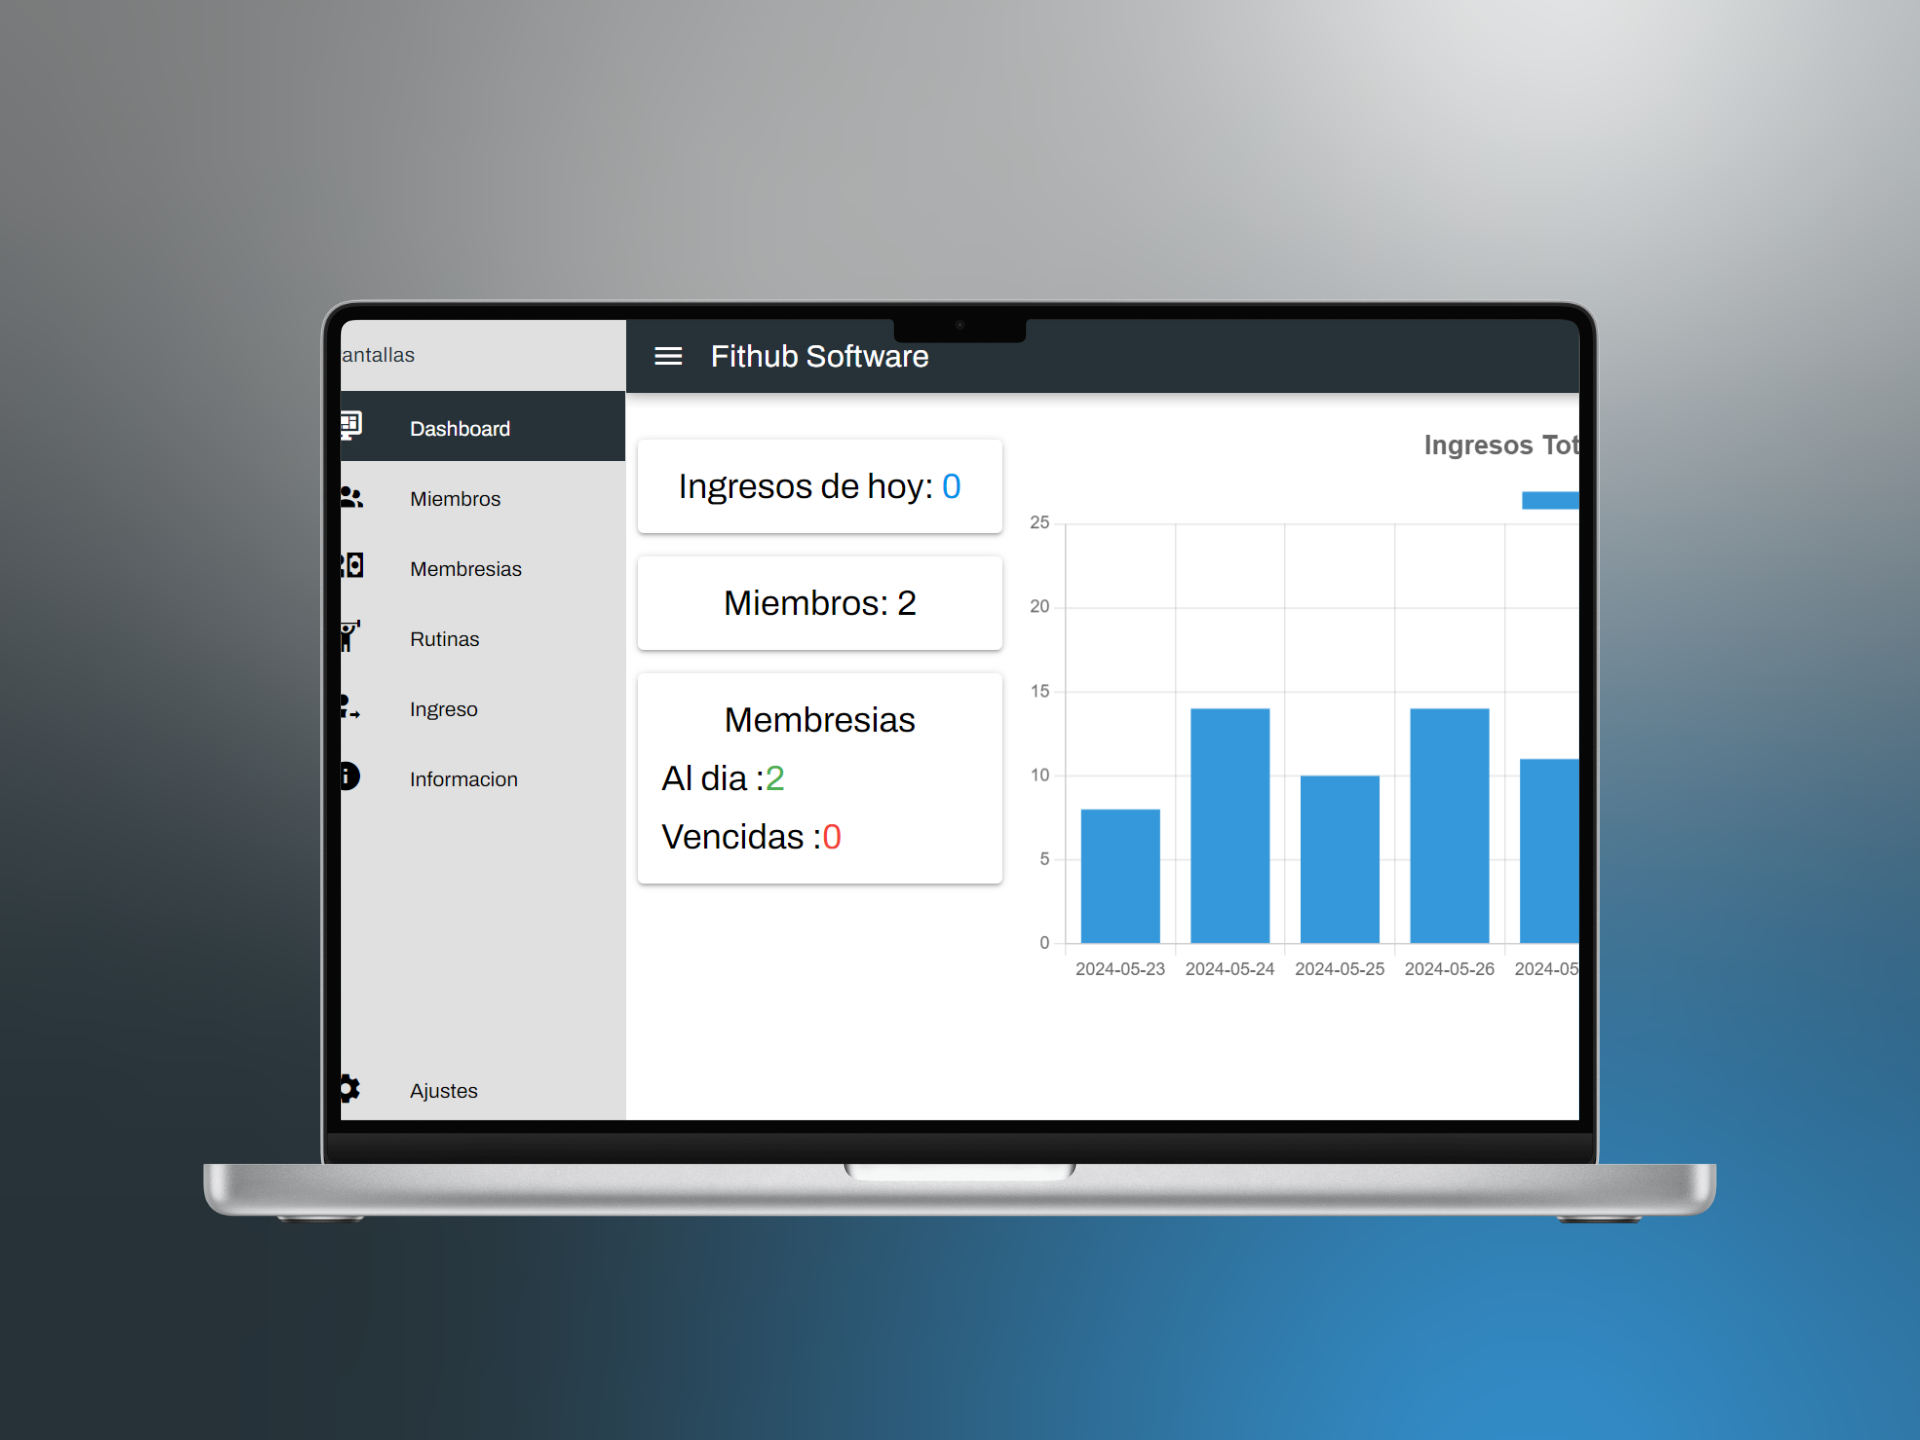
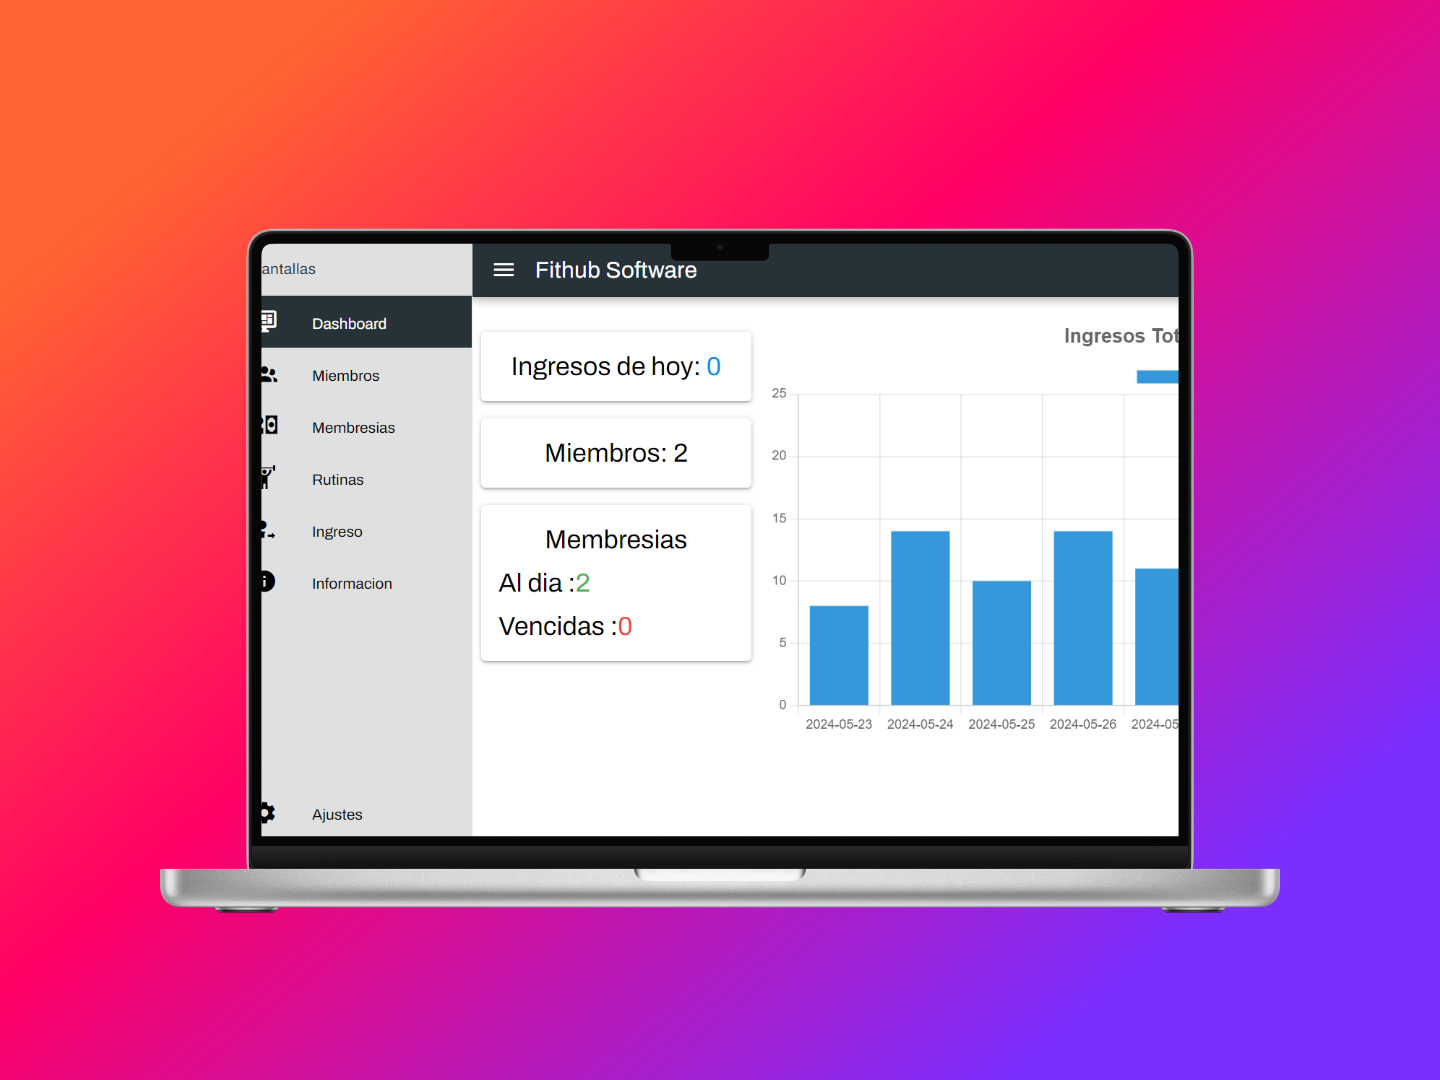
-

diff --git a/src/components/NavBar.vue b/src/components/NavBar.vue
@@ -6,7 +6,7 @@
         id="navbar-default"
       >
         <ul
-          class="font-medium flex flex-col md:p-0 mt-4 border border-gray-100 rounded-lg md:flex-row md:space-x-8 rtl:space-x-reverse md:mt-0 md:border-0 dark:border-gray-700"
+          class="font-medium text-sm sm:text-sm flex flex-row space-x-8 rtl:space-x-reverse rounded-lg md:mt-0 md:border-0 dark:border-gray-700"
         >
           <li>
             <a